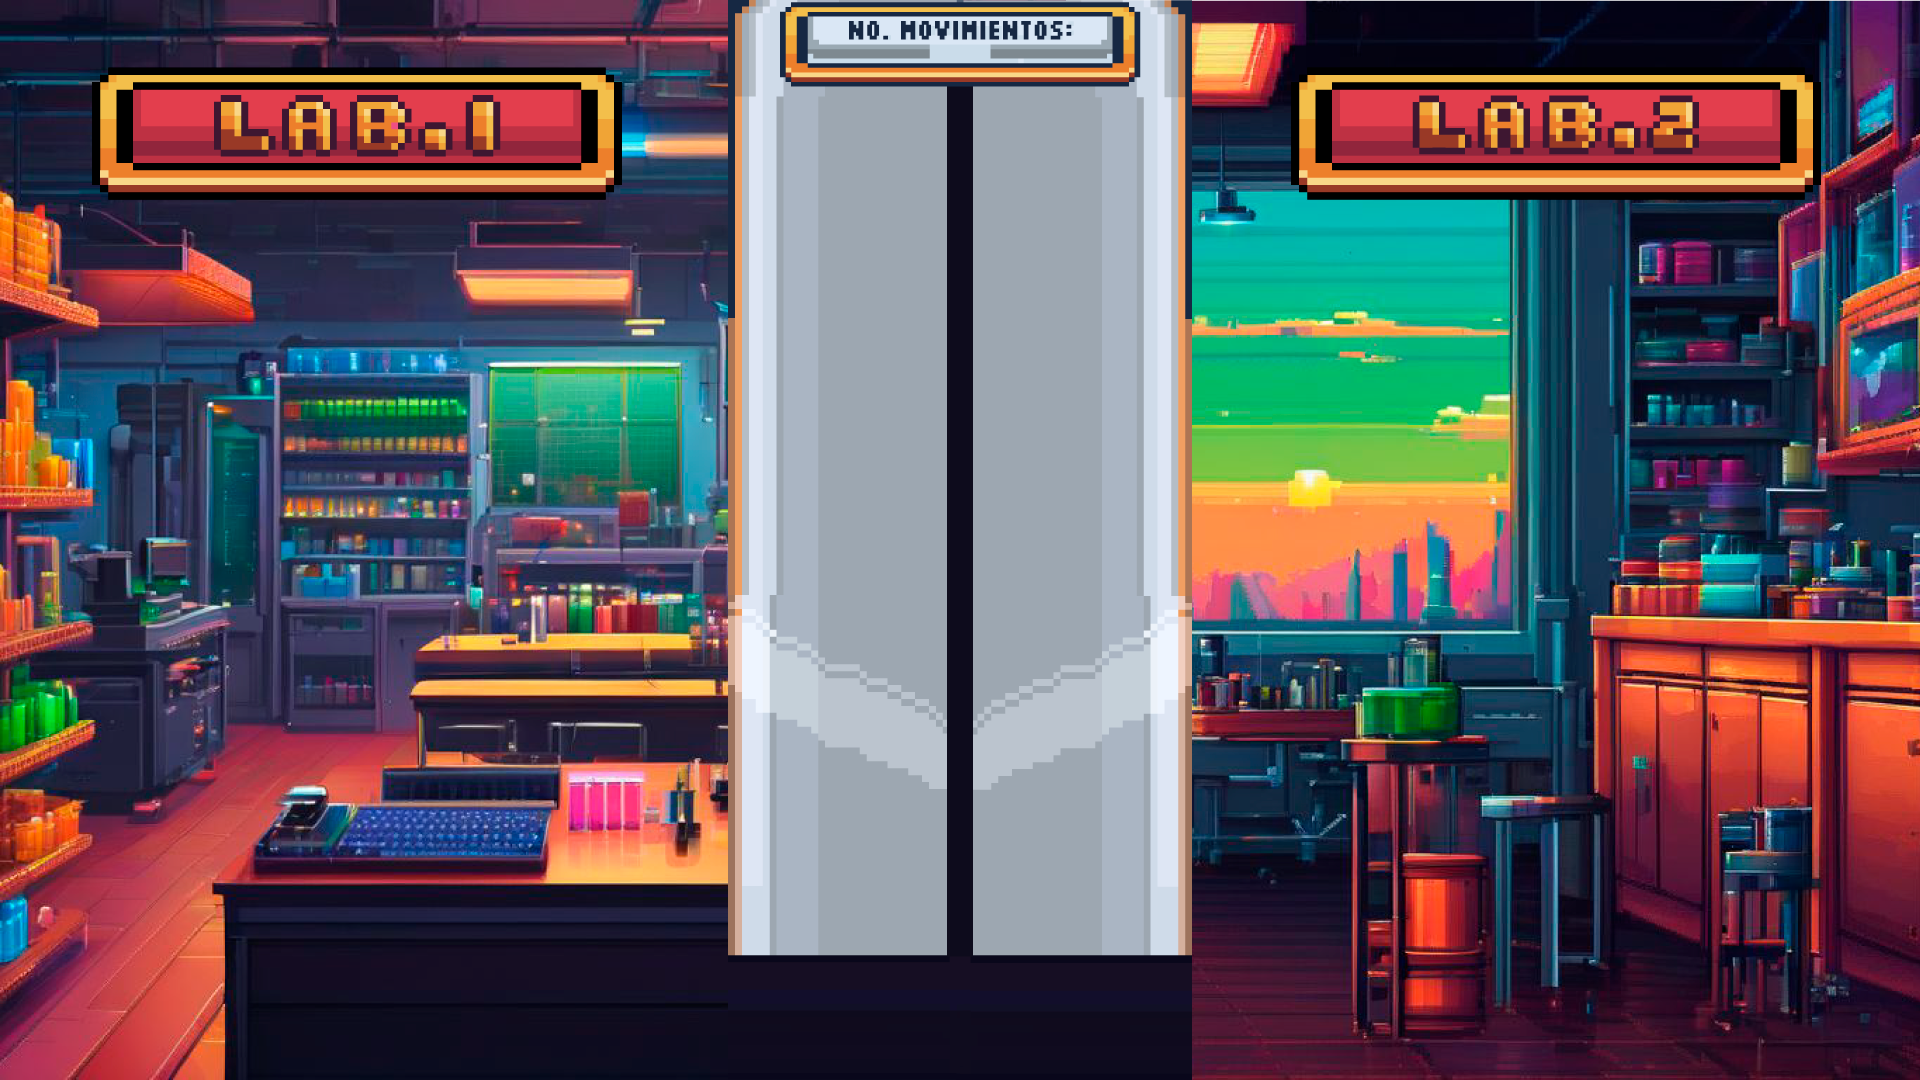
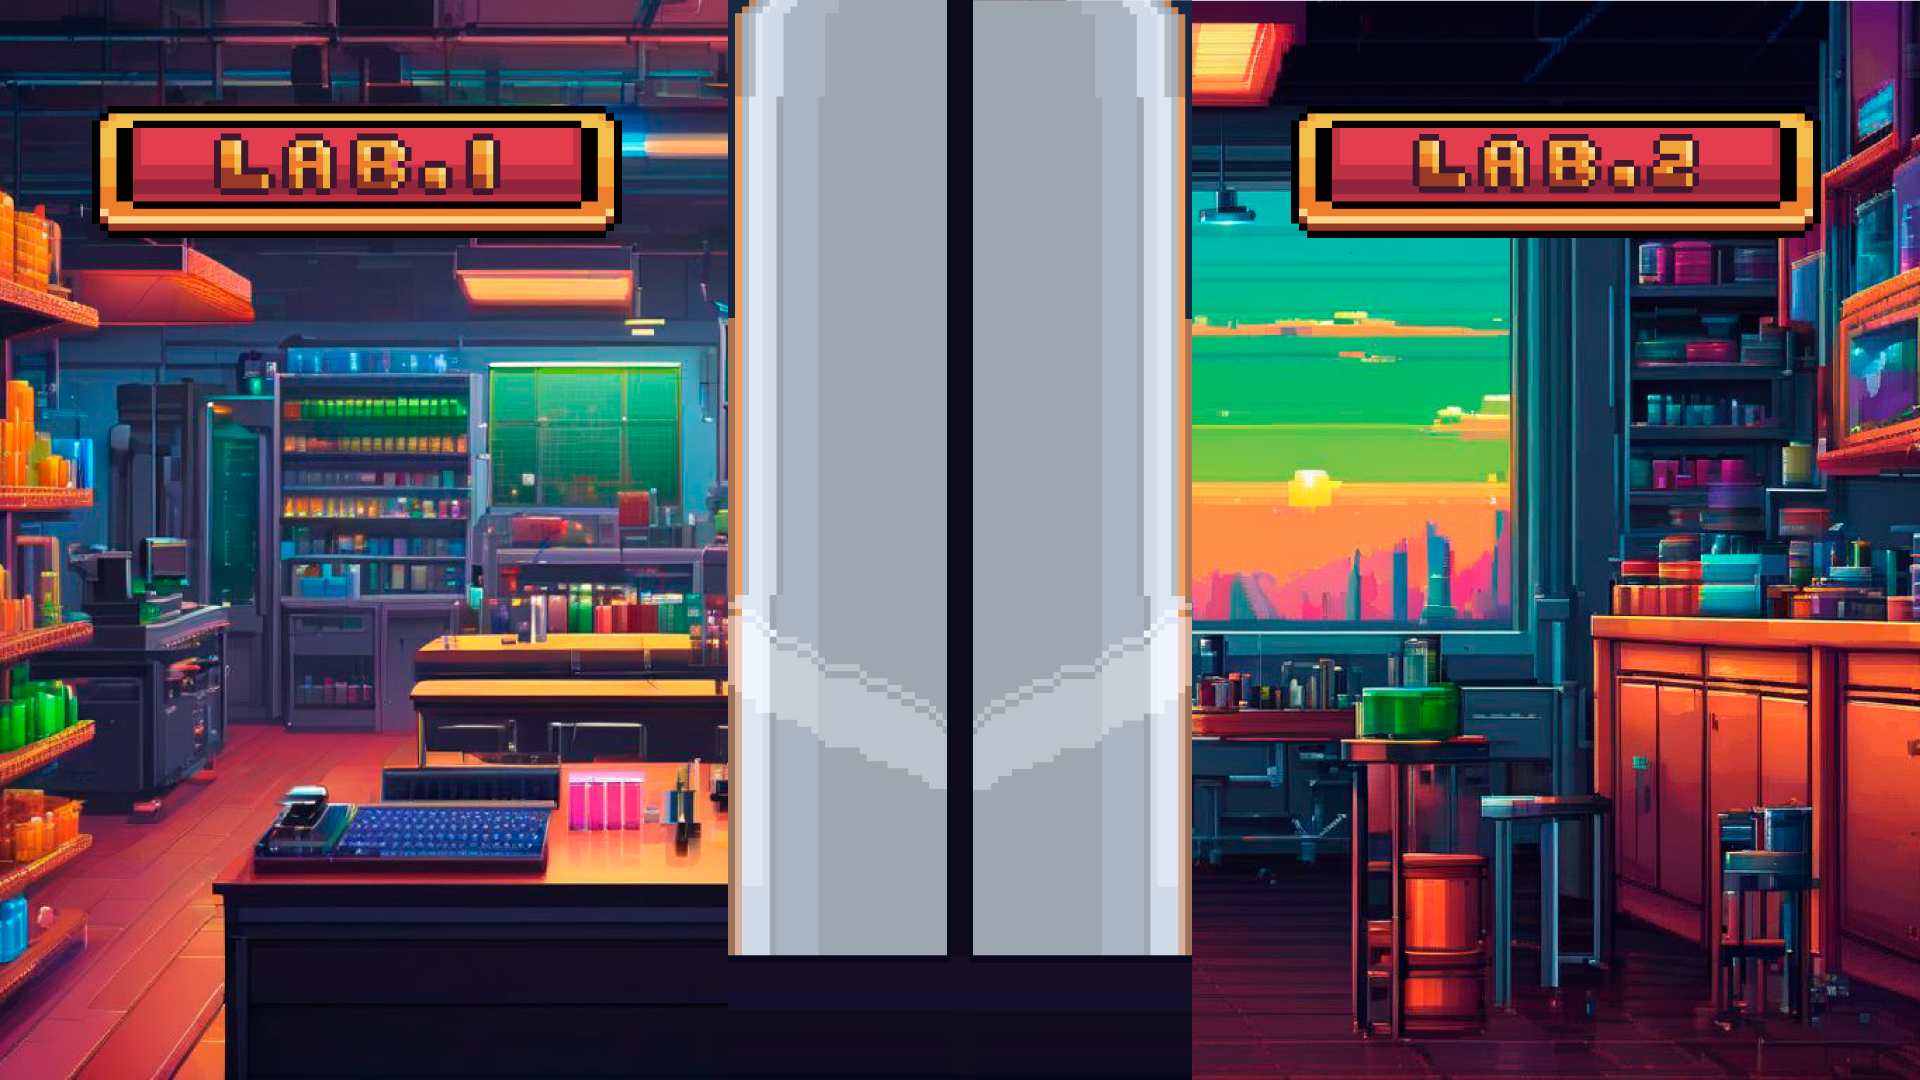
Cambiado lo de número de movimientos

Changed region(s): [[0.6562, 0.0611, 0.9688, 0.2444], [0.0312, 0.0611, 0.3438, 0.2444], [0.4062, 0.0, 0.5938, 0.0917]]

diff --git a/src/app/game/game.component.css b/src/app/game/game.component.css
@@ -21,12 +21,16 @@
 }
 
 .movimientos-container {
+  border-radius: 20px;
+  background-color: #0d0b1c;
+  padding: 5px 20px;
+  border: 5px solid #f19f62;
   position: absolute; 
   top: 70px;          
   left: 50%;          
   transform: translateX(-50%); 
   text-align: center; 
-  font-size: 24px;    
+  font-size: 18px;    
   color: white;    
   z-index: 100;       
 }
@@ -35,7 +39,13 @@
   font-family: "Silkscreen", serif;
   font-weight: 400;
   font-style: normal;
-  font-size: 28px;
+}
+
+.mov-result{
+  background-color: #f19f62;
+  padding: 1px 5px;
+  color: #0d0b1c;
+  font-size: 36px;
 }
 
 /*--------------------------- BOTONES --------------------------- */

diff --git a/src/app/game/game.component.html b/src/app/game/game.component.html
@@ -11,7 +11,8 @@
         (mouseleave)="isRegresarButtonPressed = false" />
     </div>
     <div class="movimientos-container">
-      <h2>No. Movimientos: {{ movimientos }}</h2>
+      <h2>No. Movimientos:</h2>
+      <h2 class="mov-result"> {{ movimientos }}</h2>
     </div>
     <div class="optionss">
       <div class="button-enviarL">
